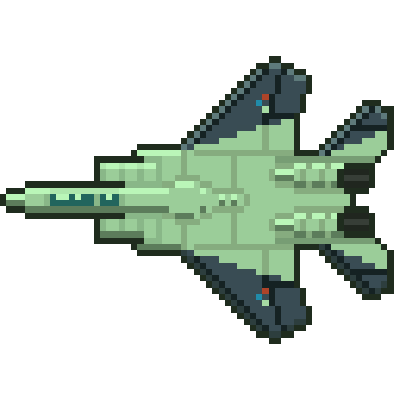
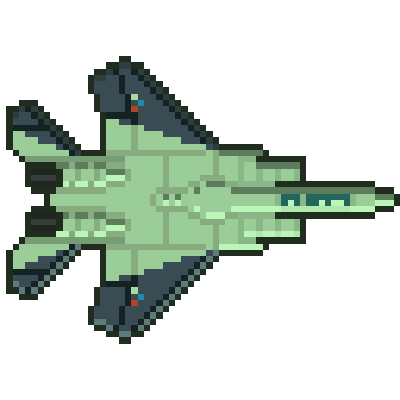
Refined collision shape, added physics visitor logic

diff --git a/src/main/java/edu/austral/starship/render/ElementRendererVisitor.java b/src/main/java/edu/austral/starship/render/ElementRendererVisitor.java
@@ -6,8 +6,11 @@ import edu.austral.starship.model.Asteroid;
 import edu.austral.starship.model.bullet.BigBullet;
 import edu.austral.starship.model.bullet.SmallBullet;
 import edu.austral.starship.model.spaceship.Spaceship;
+import processing.core.PConstants;
 import processing.core.PGraphics;
 import processing.core.PImage;
+
+import java.awt.*;
 
 
 public class ElementRendererVisitor implements Visitor {
@@ -30,10 +33,14 @@ public class ElementRendererVisitor implements Visitor {
     @Override
     public void visitAsteroid(Asteroid asteroid) {
         Vector2 position = asteroid.getPosition();
-        int height = asteroid.getShape().getBounds().height;
-        int width = asteroid.getShape().getBounds().width;
+        Rectangle bounds = asteroid.getShape().getBounds();
+        int x = bounds.x;
+        int y = bounds.y;
+        int width = bounds.width;
+        int height = bounds.height;
         graphics.beginDraw();
-        graphics.image(this.asteroid, position.getX(), position.getY(), (float) (height*0.9), (float) (width*0.9));
+        drawBounds(x, y, width, height);
+        graphics.image(this.asteroid, position.getX(), position.getY(), (float) (height*0.95), (float) (width*0.95));
         graphics.endDraw();
     }
 
@@ -50,20 +57,42 @@ public class ElementRendererVisitor implements Visitor {
     @Override
     public void visitSpaceship(Spaceship spaceship) {
         Vector2 position = spaceship.getPosition();
-        graphics.beginDraw();
         int player = spaceship.getPlayer();
-        int size = spaceship.getShape().getBounds().width;
+        Rectangle bounds = spaceship.getShape().getBounds();
+        int x = bounds.x;
+        int y = bounds.y;
+        int width = bounds.width;
+        int height = bounds.height;
+
+
+        graphics.beginDraw();
+
+        drawBounds(x, y, width, height);
+
+        graphics.pushMatrix();
+        graphics.imageMode(PConstants.CENTER);
+        graphics.translate(position.getX(), position.getY());
+        graphics.rotate(spaceship.getDirection().angle());
+
         if(player == 1) {
-            // la imagen no deberia ser cuadrada, para asi poder usar correctamente el rectangle para definir size
-            graphics.image(this.ss1, position.getX(), position.getY(), size, size);
+            graphics.image(this.ss1, 0, 0, width, width); //image is square
         }
         if (player == 2) {
-            graphics.image(this.ss2, position.getX(), position.getY(), size, size);
+            graphics.image(this.ss2, 0, 0, width, width);
         }
         graphics.endDraw();
+        graphics.popMatrix();
     }
+
 
     void setGraphics(PGraphics graphics) {
         this.graphics = graphics;
+    }
+
+    private void drawBounds(int x, int y, int width, int height) {
+        graphics.point(x, y);
+        graphics.point(x + width, y);
+        graphics.point(x, y + height);
+        graphics.point(x + width, y + height);
     }
 }

diff --git a/src/main/java/edu/austral/starship/model/GameObject.java b/src/main/java/edu/austral/starship/model/GameObject.java
@@ -6,12 +6,14 @@ import edu.austral.starship.base.collision.Collisionable;
 import edu.austral.starship.base.vector.Vector2;
 
 import java.awt.*;
+import java.awt.geom.AffineTransform;
 
 
 public abstract class GameObject implements Collisionable<GameObject>, Element {
     private boolean active;
     private Shape shape;
     private Vector2 position;
+    private Vector2 direction;
     private Visitor collisionVisitor;
 
     public GameObject(Shape shape, Vector2 position, Visitor collisionVisitor) {
@@ -19,6 +21,15 @@ public abstract class GameObject implements Collisionable<GameObject>, Element {
         this.position = position;
         this.collisionVisitor = collisionVisitor;
         this.active = true;
+        this.direction = Vector2.vector(1, 0);
+    }
+
+    public GameObject(Shape shape, Vector2 position, Visitor collisionVisitor, Vector2 direction) {
+        this.shape = shape;
+        this.position = position;
+        this.collisionVisitor = collisionVisitor;
+        this.active = true;
+        this.direction = direction;
     }
 
     @Override
@@ -35,13 +46,17 @@ public abstract class GameObject implements Collisionable<GameObject>, Element {
         return position;
     }
 
-    protected void setPosition(Vector2 addedVector) {
+    public void addPosition(Vector2 addedVector) {
         this.position = this.position.add(addedVector);
+        Rectangle bounds = this.getShape().getBounds();
         this.shape = new Rectangle(
-                (int) this.position.getX(),
-                (int) this.position.getY(),
-                this.getShape().getBounds().width,
-                this.getShape().getBounds().height);
+                (int) this.position.getX() - bounds.width / 2,
+                (int) this.position.getY() - bounds.height / 2,
+                bounds.width,
+                bounds.height);
+//        AffineTransform af = new AffineTransform();
+//        af.rotate(direction.angle());
+//        this.shape = af.createTransformedShape(rectangle);
     }
 
     public boolean isActive() {
@@ -50,5 +65,14 @@ public abstract class GameObject implements Collisionable<GameObject>, Element {
 
     void setNonActive() {
         this.active = false;
+    }
+
+    public void changeDirection(Vector2 vector) {
+        float angle = this.direction.add(vector).angle();
+        this.direction = Vector2.vectorFromModule(1, angle);
+    }
+
+    public Vector2 getDirection() {
+        return direction;
     }
 }

diff --git a/src/main/java/edu/austral/starship/CustomGameFramework.java b/src/main/java/edu/austral/starship/CustomGameFramework.java
@@ -56,8 +56,8 @@ public class CustomGameFramework implements GameFramework, Subject {
         Rectangle rect1 = new Rectangle(10, 10, 80, 55);
         Rectangle rect2 = new Rectangle(500, 10, 80, 55);
 
-        Spaceship spaceship1 = new Spaceship(rect1, Vector2.vector(rect1.x, rect1.y), ssCollisionVisitor, 1);
-        Spaceship spaceship2 = new Spaceship(rect2, Vector2.vector(rect2.x, rect2.y), ssCollisionVisitor, 2);
+        Spaceship spaceship1 = new Spaceship(rect1, Vector2.vector(rect1.x + (rect1.width / 2), rect1.y + (rect1.height / 2)), ssCollisionVisitor, 1);
+        Spaceship spaceship2 = new Spaceship(rect2, Vector2.vector(rect2.x + (rect2.width / 2), rect2.y + (rect2.height / 2)), ssCollisionVisitor, 2);
         this.player2 = new Player(spaceship2);
         this.player1 = new Player(spaceship1);
 
@@ -116,9 +116,10 @@ public class CustomGameFramework implements GameFramework, Subject {
     }
 
     private void loadBG(PGraphics graphics) {
-        graphics.beginDraw();
-        graphics.image(this.bg, 0, 0, 2048, 1152);
-        graphics.endDraw();
+        //graphics.beginDraw();
+        graphics.background(255, 255, 255);
+        //graphics.image(this.bg, 0, 0, 2048, 1152);
+        //graphics.endDraw();
     }
 
     @Override

diff --git a/src/main/java/edu/austral/starship/model/spaceship/Spaceship.java b/src/main/java/edu/austral/starship/model/spaceship/Spaceship.java
@@ -29,25 +29,29 @@ public class Spaceship extends GameObject {
 
     public void moveForward() {
         if(super.getPosition().getX() < RIGHT_LIMIT) {
-            super.setPosition(Vector2.vector(10, 0));
+            super.addPosition(Vector2.vector(10, 0));
+            super.changeDirection(Vector2.vector(1, 0));
         }
     }
 
     public void moveBackward() {
         if(super.getPosition().getX() > LEFT_LIMIT) {
-            super.setPosition(Vector2.vector(-10, 0));
+            super.addPosition(Vector2.vector(-10, 0));
+            super.changeDirection(Vector2.vector(-1, 0));
         }
     }
 
     public void moveUpwards() {
         if(super.getPosition().getY() > TOP_LIMIT) {
-            super.setPosition(Vector2.vector(0, -8));
+            super.addPosition(Vector2.vector(0, -8));
+            super.changeDirection(Vector2.vector(0, -1));
         }
     }
 
     public void moveDownwards() {
         if(super.getPosition().getY() < BOTTOM_LIMIT) {
-            super.setPosition(Vector2.vector(0, 8));
+            super.addPosition(Vector2.vector(0, 8));
+            super.changeDirection(Vector2.vector(0, 1));
         }
     }
 

diff --git a/src/main/java/edu/austral/starship/physics/PhysicsVisitor.java b/src/main/java/edu/austral/starship/physics/PhysicsVisitor.java
@@ -2,16 +2,27 @@ package edu.austral.starship.physics;
 
 
 import edu.austral.starship.Visitor;
+import edu.austral.starship.base.vector.Vector2;
 import edu.austral.starship.model.Asteroid;
 import edu.austral.starship.model.bullet.BigBullet;
 import edu.austral.starship.model.bullet.SmallBullet;
 import edu.austral.starship.model.spaceship.Spaceship;
 
+import static edu.austral.starship.CustomGameFramework.*;
+
 public class PhysicsVisitor implements Visitor {
 
     @Override
     public void visitAsteroid(Asteroid asteroid) {
-
+        Vector2 position = asteroid.getPosition();
+        if (position.getX() < RIGHT_LIMIT &&
+                position.getX() > LEFT_LIMIT &&
+                position.getY() < BOTTOM_LIMIT &&
+                position.getY() > TOP_LIMIT) {
+            asteroid.addPosition(asteroid.getDirection());
+        } else {
+            asteroid.destroy();
+        }
     }
 
     @Override

diff --git a/src/main/java/edu/austral/starship/controller/ElementController.java b/src/main/java/edu/austral/starship/controller/ElementController.java
@@ -69,11 +69,12 @@ public class ElementController implements Subject {
         if (random.nextInt(75) == 1) {
             int posX = random.nextInt(BOTTOM_LIMIT);
             int posY = random.nextInt(RIGHT_LIMIT);
-            int size = 60 + random.nextInt(60);
+            int size = 50 + random.nextInt(60);
+            int angle = random.nextInt(360);
             Vector2 pos = Vector2.vector(posX, posY);
             // un collision visitor, no hace falta n instancias...
-            addGameObject(new Asteroid(new Rectangle(posX, posY, size, size), pos, new AsteroidCollisionVisitor()));
-
+            Rectangle rectangle = new Rectangle(posX - size / 2, posY - size / 2, size, size);
+            addGameObject(new Asteroid(rectangle, pos, new AsteroidCollisionVisitor(), Vector2.vectorFromModule(1, angle)));
         }
     }
 

diff --git a/src/main/java/edu/austral/starship/model/Asteroid.java b/src/main/java/edu/austral/starship/model/Asteroid.java
@@ -12,6 +12,10 @@ public class Asteroid extends GameObject {
         super(shape, position, collisionVisitor);
     }
 
+    public Asteroid(Shape shape, Vector2 position, Visitor collisionVisitor, Vector2 direction) {
+        super(shape, position, collisionVisitor, direction);
+    }
+
     @Override
     public void accepts(Visitor visitor) {
         visitor.visitAsteroid(this);
@@ -19,10 +23,5 @@ public class Asteroid extends GameObject {
 
     public void destroy() {
         super.setNonActive();
-    }
-
-    @Override
-    public String toString() {
-        return "asteroid";
     }
 }

diff --git a/src/main/java/edu/austral/starship/collision/AsteroidCollisionVisitor.java b/src/main/java/edu/austral/starship/collision/AsteroidCollisionVisitor.java
@@ -10,7 +10,7 @@ import edu.austral.starship.model.spaceship.Spaceship;
 public class AsteroidCollisionVisitor implements Visitor {
     @Override
     public void visitAsteroid(Asteroid asteroid) {
-
+        asteroid.destroy();
     }
 
     @Override
